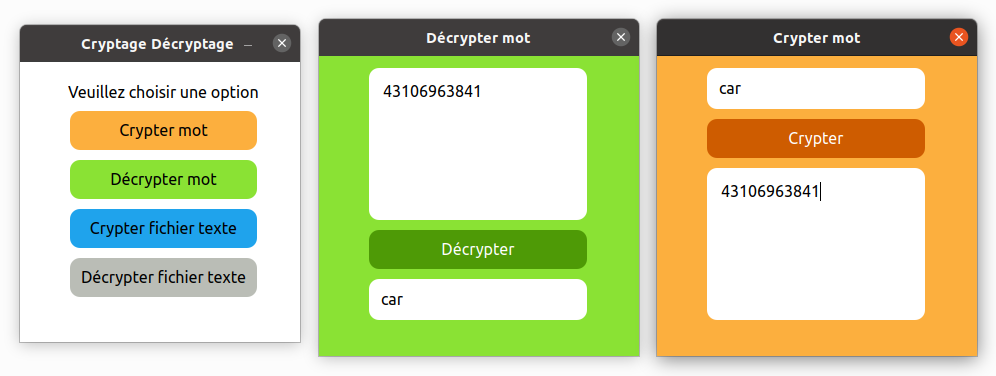
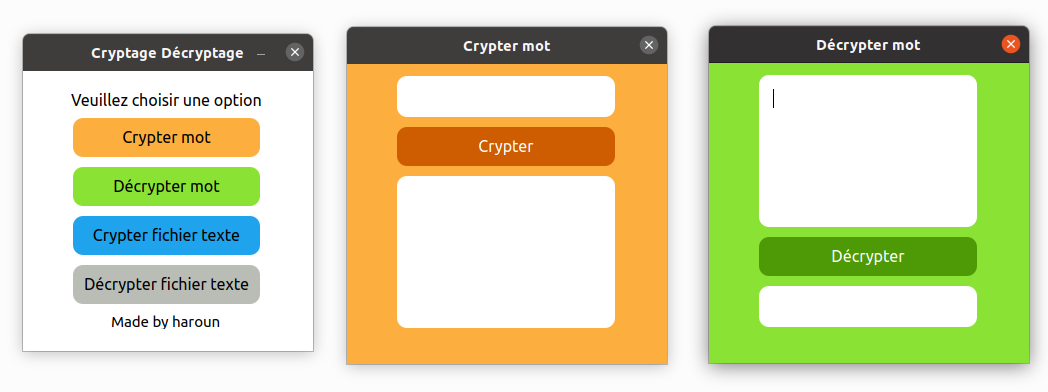
Add files via upload

diff --git a/mainWindow.py b/mainWindow.py
@@ -14,22 +14,23 @@ from PyQt5 import QtCore, QtGui, QtWidgets
 class Ui_MainWindow(object):
     def setupUi(self, MainWindow):
         MainWindow.setObjectName("MainWindow")
-        MainWindow.setMinimumSize(QtCore.QSize(280, 280))
-        MainWindow.setMaximumSize(QtCore.QSize(280, 280))
+        MainWindow.resize(290, 280)
+        MainWindow.setMinimumSize(QtCore.QSize(290, 280))
+        MainWindow.setMaximumSize(QtCore.QSize(290, 280))
         MainWindow.setStyleSheet("background-color: rgb(255, 255, 255);")
         self.centralwidget = QtWidgets.QWidget(MainWindow)
         self.centralwidget.setObjectName("centralwidget")
-        self.layoutWidget = QtWidgets.QWidget(self.centralwidget)
-        self.layoutWidget.setGeometry(QtCore.QRect(30, 20, 227, 217))
-        self.layoutWidget.setObjectName("layoutWidget")
-        self.verticalLayout = QtWidgets.QVBoxLayout(self.layoutWidget)
+        self.widget = QtWidgets.QWidget(self.centralwidget)
+        self.widget.setGeometry(QtCore.QRect(30, 20, 227, 240))
+        self.widget.setObjectName("widget")
+        self.verticalLayout = QtWidgets.QVBoxLayout(self.widget)
         self.verticalLayout.setContentsMargins(0, 0, 0, 0)
         self.verticalLayout.setObjectName("verticalLayout")
-        self.label = QtWidgets.QLabel(self.layoutWidget)
+        self.label = QtWidgets.QLabel(self.widget)
         self.label.setStyleSheet("font-size:16px;")
         self.label.setObjectName("label")
-        self.verticalLayout.addWidget(self.label, 0, QtCore.Qt.AlignHCenter|QtCore.Qt.AlignVCenter)
-        self.cryptStr = QtWidgets.QPushButton(self.layoutWidget)
+        self.verticalLayout.addWidget(self.label, 0, QtCore.Qt.AlignHCenter)
+        self.cryptStr = QtWidgets.QPushButton(self.widget)
         self.cryptStr.setStyleSheet("border: none;\n"
 "padding: 10px;\n"
 "background-color: rgb(252, 175, 62);\n"
@@ -38,7 +39,7 @@ class Ui_MainWindow(object):
 "border-radius: 10px;")
         self.cryptStr.setObjectName("cryptStr")
         self.verticalLayout.addWidget(self.cryptStr)
-        self.decryptStr = QtWidgets.QPushButton(self.layoutWidget)
+        self.decryptStr = QtWidgets.QPushButton(self.widget)
         self.decryptStr.setStyleSheet("border: none;\n"
 "padding: 10px;\n"
 "background-color: rgb(138, 226, 52);\n"
@@ -47,7 +48,7 @@ class Ui_MainWindow(object):
 "border-radius: 10px;")
         self.decryptStr.setObjectName("decryptStr")
         self.verticalLayout.addWidget(self.decryptStr)
-        self.cryptFile = QtWidgets.QPushButton(self.layoutWidget)
+        self.cryptFile = QtWidgets.QPushButton(self.widget)
         self.cryptFile.setStyleSheet("background-color: #1fa3ec;\n"
 "border: none;\n"
 "padding: 10px;\n"
@@ -56,7 +57,7 @@ class Ui_MainWindow(object):
 "border-radius: 10px;")
         self.cryptFile.setObjectName("cryptFile")
         self.verticalLayout.addWidget(self.cryptFile)
-        self.decryptFile = QtWidgets.QPushButton(self.layoutWidget)
+        self.decryptFile = QtWidgets.QPushButton(self.widget)
         self.decryptFile.setStyleSheet("border: none;\n"
 "background-color: rgb(186, 189, 182);\n"
 "padding: 10px;\n"
@@ -65,9 +66,12 @@ class Ui_MainWindow(object):
 "border-radius: 10px;")
         self.decryptFile.setObjectName("decryptFile")
         self.verticalLayout.addWidget(self.decryptFile)
+        self.label_2 = QtWidgets.QLabel(self.widget)
+        self.label_2.setObjectName("label_2")
+        self.verticalLayout.addWidget(self.label_2, 0, QtCore.Qt.AlignHCenter)
         MainWindow.setCentralWidget(self.centralwidget)
         self.menubar = QtWidgets.QMenuBar(MainWindow)
-        self.menubar.setGeometry(QtCore.QRect(0, 0, 280, 22))
+        self.menubar.setGeometry(QtCore.QRect(0, 0, 290, 22))
         self.menubar.setObjectName("menubar")
         MainWindow.setMenuBar(self.menubar)
         self.statusbar = QtWidgets.QStatusBar(MainWindow)
@@ -85,6 +89,7 @@ class Ui_MainWindow(object):
         self.decryptStr.setText(_translate("MainWindow", "Décrypter mot"))
         self.cryptFile.setText(_translate("MainWindow", "Crypter fichier texte"))
         self.decryptFile.setText(_translate("MainWindow", "Décrypter fichier texte"))
+        self.label_2.setText(_translate("MainWindow", "Made by haroun"))
 
 
 if __name__ == "__main__":
